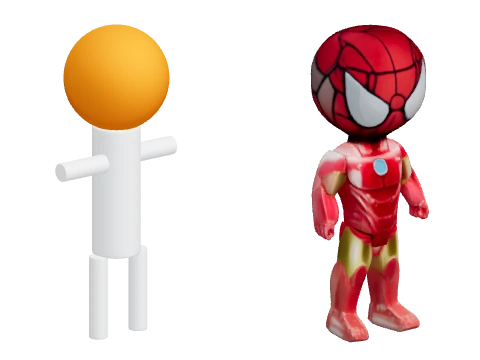
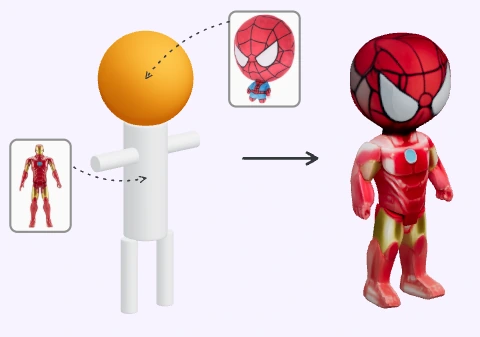
Show image conditioning in the SpaceFlow 3D preview

diff --git a/spaceflow-preview.js b/spaceflow-preview.js
@@ -1,4 +1,4 @@
-// A standalone version of the Iron Man pair from the SpaceFlow 3D teaser.
+// The Iron Man image-conditioning example, rebuilt from the original teaser assets.
 const motion = window.matchMedia('(prefers-reduced-motion: reduce)');
 const previews = document.querySelectorAll('[data-spaceflow-preview]');
 
@@ -25,9 +25,14 @@ async function mountPreview(link) {
 
   const pitch = 0.29;
   const loader = new GLTFLoader();
+  const layout = [[46, 12.6, 106, 211.7], [214, 14, 126, 205]];
+  const annotations = [
+    { part: 5, start: [159, 15], path: link.querySelector('[data-spaceflow-leader="head"]') },
+    { part: 4, start: [51, 116], path: link.querySelector('[data-spaceflow-leader="body"]') }
+  ];
   let views;
   try {
-    views = await Promise.all(['input', 'output'].map(async (role) => {
+    views = await Promise.all(['input', 'output'].map(async (role, index) => {
       const scene = new THREE.Scene();
       scene.environment = environment.texture;
       scene.add(new THREE.HemisphereLight(0xffffff, 0xa7a4a0, 0.8));
@@ -58,8 +63,10 @@ async function mountPreview(link) {
       let horizontalHalf = 0;
       let verticalHalf = 0;
       const vertex = new THREE.Vector3();
+      const meshes = [];
       object.traverse((mesh) => {
         if (!mesh.isMesh) return;
+        meshes.push(mesh);
         const positions = mesh.geometry.getAttribute('position');
         for (let i = 0; i < positions.count; i++) {
           vertex.fromBufferAttribute(positions, i).applyMatrix4(mesh.matrixWorld);
@@ -69,8 +76,13 @@ async function mountPreview(link) {
             Math.abs(vertex.y) * Math.cos(pitch) + radius * Math.sin(pitch));
         }
       });
+      const targets = role === 'input' ? annotations.map((spec) => {
+        const mesh = meshes.find((mesh) => mesh.name === `superquadric_${spec.part}`);
+        if (!mesh) throw new Error(`Missing input part ${spec.part}`);
+        return { ...spec, mesh, center: new THREE.Box3().setFromObject(mesh).getCenter(new THREE.Vector3()) };
+      }) : [];
       return { scene, camera: new THREE.OrthographicCamera(-1, 1, 1, -1, 0.01, 50),
-        horizontalHalf, verticalHalf };
+        horizontalHalf, verticalHalf, meshes, targets, rect: layout[index] };
     }));
   } catch (error) {
     environment.dispose();
@@ -79,22 +91,48 @@ async function mountPreview(link) {
   }
 
   let width = 160;
-  let height = 120;
+  let height = 112;
   let angle = -0.65;
   let visible = false;
   let frame = 0;
   let previousTime = 0;
+  const raycaster = new THREE.Raycaster();
+  const ndc = new THREE.Vector3();
+
+  function updateLeaders(view) {
+    const [left, top, w, h] = view.rect;
+    for (const target of view.targets) {
+      ndc.copy(target.center).project(view.camera);
+      raycaster.setFromCamera(new THREE.Vector2(ndc.x, ndc.y), view.camera);
+      const hit = raycaster.intersectObjects(view.meshes, false)[0];
+      const shown = hit?.object === target.mesh;
+      target.path.style.visibility = shown ? 'visible' : 'hidden';
+      if (!shown) continue;
+      const ex = left + (ndc.x + 1) * w / 2;
+      const ey = top + (1 - ndc.y) * h / 2;
+      const [sx, sy] = target.start;
+      const dx = ex - sx;
+      const dy = ey - sy;
+      const distance = Math.hypot(dx, dy);
+      const bend = Math.min(13, distance * 0.2);
+      const cx = (sx + ex) / 2 - dy / (distance || 1) * bend;
+      const cy = (sy + ey) / 2 + dx / (distance || 1) * bend;
+      target.path.setAttribute('d', `M ${sx} ${sy} Q ${cx} ${cy} ${ex} ${ey}`);
+    }
+  }
 
   function render() {
     renderer.setScissorTest(false);
     renderer.clear();
     renderer.setScissorTest(true);
-    views.forEach((view, i) => {
-      const x = width * (i === 0 ? 0.02 : 0.55);
-      const w = width * 0.43;
-      const h = height * 0.96;
+    views.forEach((view) => {
+      const [left, top, rw, rh] = view.rect;
+      const x = left / 333 * width;
+      const y = height - (top + rh) / 234 * height;
+      const w = rw / 333 * width;
+      const h = rh / 234 * height;
       const aspect = w / h;
-      const extent = Math.max(view.verticalHalf, view.horizontalHalf / aspect) * 1.06;
+      const extent = Math.max(view.verticalHalf, view.horizontalHalf / aspect) * 1.04;
       const camera = view.camera;
       camera.left = -extent * aspect;
       camera.right = extent * aspect;
@@ -104,9 +142,11 @@ async function mountPreview(link) {
         5 * Math.cos(angle) * Math.cos(pitch));
       camera.lookAt(0, 0, 0);
       camera.updateProjectionMatrix();
-      renderer.setViewport(x, height * 0.02, w, h);
-      renderer.setScissor(x, height * 0.02, w, h);
+      camera.updateMatrixWorld();
+      renderer.setViewport(x, y, w, h);
+      renderer.setScissor(x, y, w, h);
       renderer.render(view.scene, camera);
+      updateLeaders(view);
     });
     renderer.setScissorTest(false);
   }
@@ -170,7 +210,7 @@ for (const link of previews) {
       observer.disconnect();
       motion.removeEventListener('change', load);
     } catch (error) {
-      // The clean model render remains a clickable preview if WebGL is unavailable.
+      // The complete conditioning example remains clickable if WebGL is unavailable.
       console.warn('SpaceFlow preview could not start:', error);
     }
   }

diff --git a/publications.html b/publications.html
@@ -6,8 +6,8 @@
   <title>Selected Research — Neil De La Fuente</title>
   <link rel="icon" type="image/png" sizes="64x64" href="favicon-spaceflow.png?v=20260930">
   <script src="favicon.js?v=20260930" defer></script>
-  <script type="module" src="spaceflow-preview.js?v=20260930-3d"></script>
-  <link rel="stylesheet" href="style.css?v=20260930-3d">
+  <script type="module" src="spaceflow-preview.js?v=20260930-conditioning"></script>
+  <link rel="stylesheet" href="style.css?v=20260930-conditioning">
 </head>
 <body>
 
@@ -45,10 +45,35 @@
       <!-- SpaceFlow · 2026 -->
       <article class="pub-item">
           <a href="https://neilus03.github.io/spaceflow/" class="pub-visual spaceflow-preview"
-            data-spaceflow-preview aria-label="Explore SpaceFlow: rotating Iron Man 3D example"
+            data-spaceflow-preview aria-label="Explore SpaceFlow: Iron Man and Spider-Man image conditioning in 3D"
             target="_blank" rel="noopener noreferrer">
-            <img src="figs/spaceflow-preview.webp" alt="Input geometry and a generated Iron Man figurine with a Spider-Man head"
-              width="480" height="360" loading="lazy" decoding="async">
+            <img src="figs/spaceflow-preview.webp?v=20260930-conditioning" alt="Iron Man body and Spider-Man head reference images condition a generated 3D figurine"
+              width="480" height="337" loading="lazy" decoding="async">
+            <svg class="spaceflow-preview-conditioning" xmlns="http://www.w3.org/2000/svg"
+              viewBox="0 0 333 234" aria-hidden="true">
+              <defs>
+                <marker id="spaceflow-conditioning-arrow" viewBox="0 0 10 10" refX="9" refY="5"
+                  markerWidth="5" markerHeight="5" orient="auto">
+                  <path d="M 1 1 L 9 5 L 1 9" fill="none" stroke="#3f4144" stroke-width="1.6"
+                    stroke-linecap="round" stroke-linejoin="round" />
+                </marker>
+              </defs>
+              <rect x="159" y="8" width="49" height="66" rx="5" fill="#fafafa" stroke="#929292" stroke-width="1.5" />
+              <svg x="161" y="10" width="45" height="62" viewBox="167 76 406 590">
+                <image href="figs/spaceflow/spiderman-conditioning.png" width="740" height="740" />
+              </svg>
+              <rect x="7" y="97" width="42" height="64" rx="5" fill="#fafafa" stroke="#929292" stroke-width="1.5" />
+              <svg x="10" y="100" width="36" height="58" viewBox="37 0 158 310">
+                <image href="figs/spaceflow/ironman-conditioning.png" width="232" height="310" />
+              </svg>
+              <path d="M 169 110 H 220 M 213 106 L 220 110 L 213 114" fill="none"
+                stroke="#34383b" stroke-width="2" stroke-linecap="round" stroke-linejoin="round" />
+              <g fill="none" stroke="#3f4144" stroke-width="1.1" stroke-dasharray="1.6 4"
+                stroke-linecap="round" marker-end="url(#spaceflow-conditioning-arrow)">
+                <path data-spaceflow-leader="head" />
+                <path data-spaceflow-leader="body" />
+              </g>
+            </svg>
           </a>
           <div class="pub-content">
             <h3 class="pub-title">SpaceFlow: Locally Controllable 3D Generation</h3>

diff --git a/index.html b/index.html
@@ -7,8 +7,8 @@
   <title>Neil De La Fuente — ETH Zürich | PRS Lab</title>
   <link rel="icon" type="image/png" sizes="64x64" href="favicon-spaceflow.png?v=20260930">
   <script src="favicon.js?v=20260930" defer></script>
-  <script type="module" src="spaceflow-preview.js?v=20260930-3d"></script>
-  <link rel="stylesheet" href="style.css?v=20260930-3d">
+  <script type="module" src="spaceflow-preview.js?v=20260930-conditioning"></script>
+  <link rel="stylesheet" href="style.css?v=20260930-conditioning">
 </head>
 
 <body>
@@ -164,10 +164,35 @@
         <!-- 2026 -->
         <article class="pub-item">
           <a href="https://neilus03.github.io/spaceflow/" class="pub-visual spaceflow-preview"
-            data-spaceflow-preview aria-label="Explore SpaceFlow: rotating Iron Man 3D example"
+            data-spaceflow-preview aria-label="Explore SpaceFlow: Iron Man and Spider-Man image conditioning in 3D"
             target="_blank" rel="noopener noreferrer">
-            <img src="figs/spaceflow-preview.webp" alt="Input geometry and a generated Iron Man figurine with a Spider-Man head"
-              width="480" height="360" loading="lazy" decoding="async">
+            <img src="figs/spaceflow-preview.webp?v=20260930-conditioning" alt="Iron Man body and Spider-Man head reference images condition a generated 3D figurine"
+              width="480" height="337" loading="lazy" decoding="async">
+            <svg class="spaceflow-preview-conditioning" xmlns="http://www.w3.org/2000/svg"
+              viewBox="0 0 333 234" aria-hidden="true">
+              <defs>
+                <marker id="spaceflow-conditioning-arrow" viewBox="0 0 10 10" refX="9" refY="5"
+                  markerWidth="5" markerHeight="5" orient="auto">
+                  <path d="M 1 1 L 9 5 L 1 9" fill="none" stroke="#3f4144" stroke-width="1.6"
+                    stroke-linecap="round" stroke-linejoin="round" />
+                </marker>
+              </defs>
+              <rect x="159" y="8" width="49" height="66" rx="5" fill="#fafafa" stroke="#929292" stroke-width="1.5" />
+              <svg x="161" y="10" width="45" height="62" viewBox="167 76 406 590">
+                <image href="figs/spaceflow/spiderman-conditioning.png" width="740" height="740" />
+              </svg>
+              <rect x="7" y="97" width="42" height="64" rx="5" fill="#fafafa" stroke="#929292" stroke-width="1.5" />
+              <svg x="10" y="100" width="36" height="58" viewBox="37 0 158 310">
+                <image href="figs/spaceflow/ironman-conditioning.png" width="232" height="310" />
+              </svg>
+              <path d="M 169 110 H 220 M 213 106 L 220 110 L 213 114" fill="none"
+                stroke="#34383b" stroke-width="2" stroke-linecap="round" stroke-linejoin="round" />
+              <g fill="none" stroke="#3f4144" stroke-width="1.1" stroke-dasharray="1.6 4"
+                stroke-linecap="round" marker-end="url(#spaceflow-conditioning-arrow)">
+                <path data-spaceflow-leader="head" />
+                <path data-spaceflow-leader="body" />
+              </g>
+            </svg>
           </a>
           <div class="pub-content">
             <h3 class="pub-title">SpaceFlow: Locally Controllable 3D Generation</h3>

diff --git a/style.css b/style.css
@@ -663,8 +663,9 @@ p {
 
 .spaceflow-preview {
   position: relative;
-  aspect-ratio: 4 / 3;
+  aspect-ratio: 333 / 234;
   overflow: hidden;
+  background: #f7f3ff;
   border: 1px solid var(--border);
   border-radius: var(--radius);
 }
@@ -695,6 +696,20 @@ p {
 
 .spaceflow-preview[data-ready="true"] img {
   opacity: 0;
+}
+
+.spaceflow-preview-conditioning {
+  display: none;
+  position: absolute;
+  z-index: 1;
+  inset: 0;
+  width: 100%;
+  height: 100%;
+  pointer-events: none;
+}
+
+.spaceflow-preview[data-ready="true"] .spaceflow-preview-conditioning {
+  display: block;
 }
 
 .site-footer {
